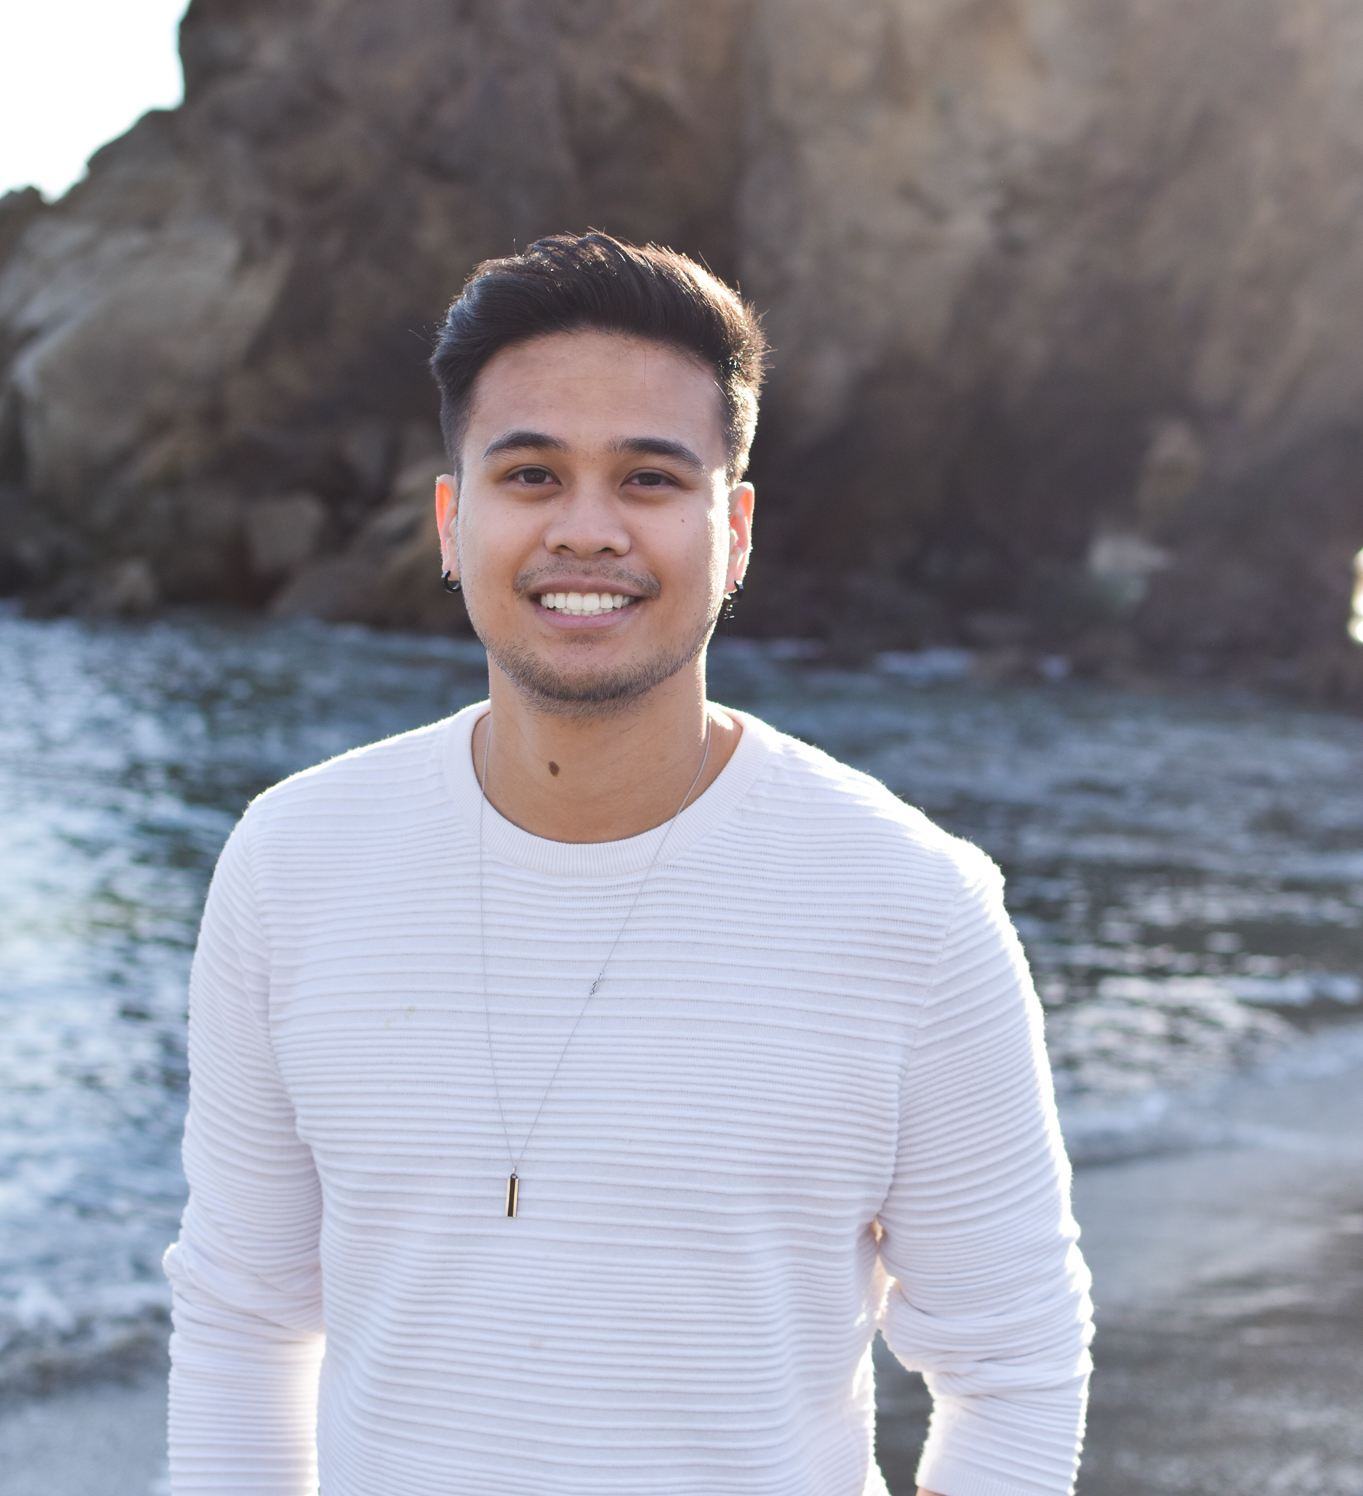
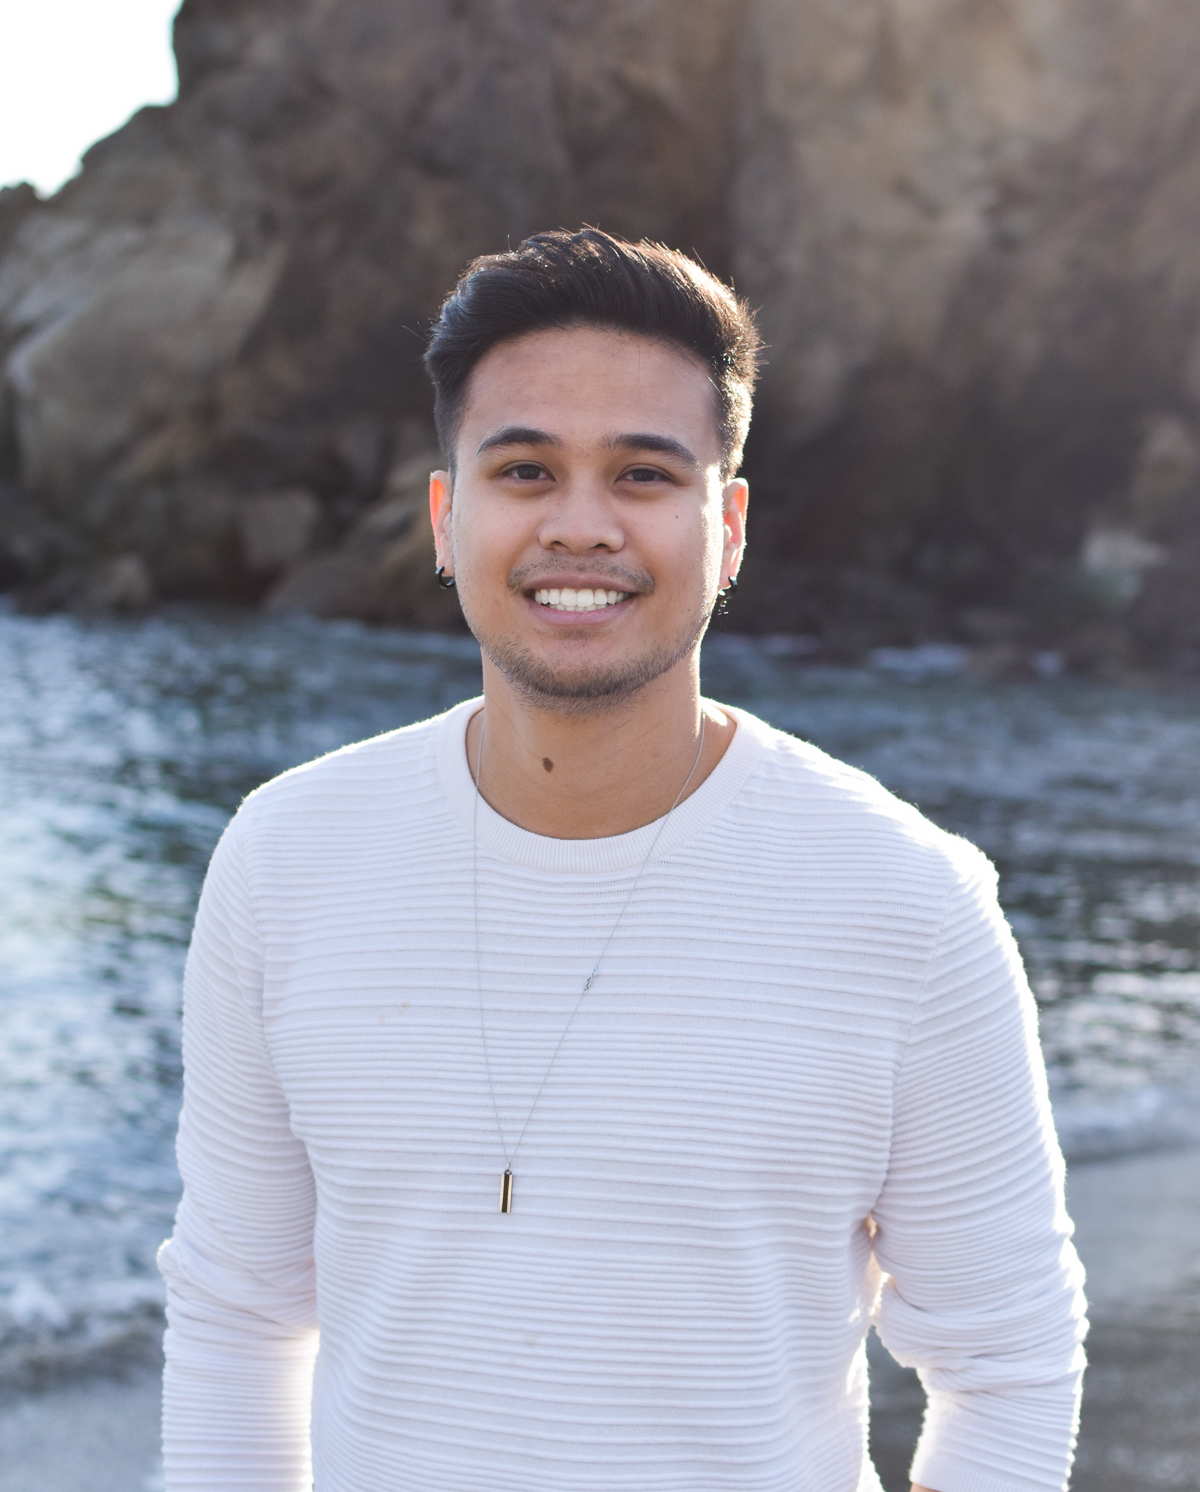
Adding more info about myself

diff --git a/index.html b/index.html
@@ -14,7 +14,7 @@
     <script src="https://stackpath.bootstrapcdn.com/bootstrap/4.3.1/js/bootstrap.min.js" integrity="sha384-JjSmVgyd0p3pXB1rRibZUAYoIIy6OrQ6VrjIEaFf/nJGzIxFDsf4x0xIM+B07jRM" crossorigin="anonymous"></script>
     <script src="https://ajax.googleapis.com/ajax/libs/jquery/2.1.1/jquery.min.js"></script>
 </head>
-<body class="dark"> 
+<body class="dark" id="start"> 
     <nav class="navbar sticky-top navbar-expand-lg navbar-dark bg-dark">
         <a class="navbar-brand ml-5" href="#">
             <div class="nav-name">
@@ -30,6 +30,9 @@
         
         <div class="collapse navbar-collapse" id="navbarTogglerDemo02">
             <ul class="navbar-nav mt-2 mt-lg-0 ml-auto">
+                <li class="nav-item active ml-4 mr-4">
+                    <a class="nav-link" href="#start">Home</a>
+                </li>                
                 <li class="nav-item active ml-4 mr-4">
                     <a class="nav-link" href="#about">About</a>
                 </li>
@@ -51,7 +54,7 @@
         <div class="star1 fade-in"> </div>
         <div class="star2 fade-in"> </div>
         <div class="box"> 
-            <div id="about">
+            <div id="home">
                 <div class="intro">
                     <p>Hi there! <span class="wave">👋</span></p>
                     <p>I'm <span class="name strong">Kevin Ramos</span></p>
@@ -60,7 +63,17 @@
                     </div>
                 </div>
                 <div class="me">
-                    <img src="images/me.jpg" height="450px" width="450px" alt="">
+                    <img src="images/kev_portrait.jpg" height="550px" width="440px" alt="">
+                </div>
+            </div>
+            <div id="about">
+                <div class="avatar">
+                    <img src="images/avatar.xcf" alt="">
+                </div>
+                <div class="intro">
+                    <div class="heading">
+                        <h1>ALLOW ME TO<strong><span class="strong"> INTRODUCE </span></strong>MYSELF</h1>
+                    </div>
                 </div>
             </div>
         </div>
@@ -80,7 +93,7 @@
         }
 
         document.addEventListener('DOMContentLoaded',function(event){
-            var dataText = [ "Full-Stack Developer      ", "Dancer            ", "Gamer           ", "Snowboarder      ", "Your new Member          "];
+            var dataText = [ "Full-Stack Developer      ", "Dancer            ", "Gamer           ", "Snowboarder      ", "Your new Team Member          "];
             function typeWriter(text, i, fnCallback) {
                 if (i < (text.length)) {
                     document.querySelector("#myTypewriter").innerHTML = text.substring(0, i+1) +'<span aria-hidden="true"></span>';

diff --git a/styles.css b/styles.css
@@ -1,12 +1,12 @@
-@import url('https://fonts.googleapis.com/css2?family=Patua+One&display=swap');
+@import url('https://fonts.googleapis.com/css2?family=Raleway&display=swap');
 
 * {
     margin: 0;
     padding: 0;
-    font-family: 'Patua One', cursive;
+    font-family: 'Raleway', sans-serif;
 }
+
 nav {
-    font-family: 'Patua One', cursive;
     box-shadow: rgba(0, 0, 0, 0.3) 0px 2px 4px;
 }
 nav img {
@@ -23,7 +23,7 @@ nav img {
     font-size: 25px;
 }
 .box {
-    margin-top: 100px;
+    padding-top: 50px;
     position: absolute;
     margin-left: 15%;
     display: flex;
@@ -31,18 +31,18 @@ nav img {
     justify-content: center;
     align-items: center;
     width: 70%;
+    gap: 400px;
 }
 
-#about {
+#home {
     display: flex;
     justify-content: space-between;
     height: 500px;
     width: 100%;
     flex-wrap: wrap;
-    /* background-color: green; */
 }
 
-.intro {
+#home .intro {
     padding-top: 90px;
     padding-left: 70px;
     height: 300px;
@@ -62,6 +62,13 @@ nav img {
     padding-right: 30px;
 }
 
+.me img {
+    box-shadow: rgba(0, 0, 0, 0.3) 0px 2px 4px;
+}
+
+.dark .me img {
+    box-shadow: #fff 0px 2px 4px;
+}
 .wave {
     animation-name: wave-animation;  /* Refers to the name of your @keyframes element below */
     animation-duration: 2.5s;        /* Change to speed up or slow down */
@@ -69,6 +76,7 @@ nav img {
     transform-origin: 70% 70%;       /* Pivot around the bottom-left palm */
     display: inline-block;
 }
+
 @keyframes wave-animation {
     0% { transform: rotate( 0.0deg) }
    10% { transform: rotate(14.0deg) }  /* The following five values can be played with to make the waving more or less extreme */
@@ -80,11 +88,57 @@ nav img {
   100% { transform: rotate( 0.0deg) }
 }
 
+#about {
+    width: 100%;
+    height: 600px;
+    display: flex;
+    justify-content: space-between;
+    background: green;
+    flex-wrap: wrap;
+}
+
+.avatar {
+    margin-top: 50px;
+    margin-left: 30px;
+    height: 300px;
+    width: 30%;
+    background: red;
+}
+
+#about .intro {
+    display: flex;
+    flex-direction: column;
+    width: 60%;
+    background: blue;
+}
+#about .intro .heading h1 {
+    margin: 0px 30px;
+    font-size: 40px;
+    text-align: center;
+}
+
+
 @media screen and (max-width: 1000px) {
     .career {
         display: none;
     }
+    .box {
+        gap: 500px;
+    }
     .me {
-        margin-top: 100px;
+        margin-top: 200px;
+        padding-left: 30px; 
+    }
+    .me img {
+        height: 380px;
+        width: 300px;
+    }
+    .meLogo {
+        width: 250px;
+        height: 250px;
+        margin-right: 30px;
+    }
+    .aboutIntro h1 {
+        margin: 0px 50px;
     }
 }
